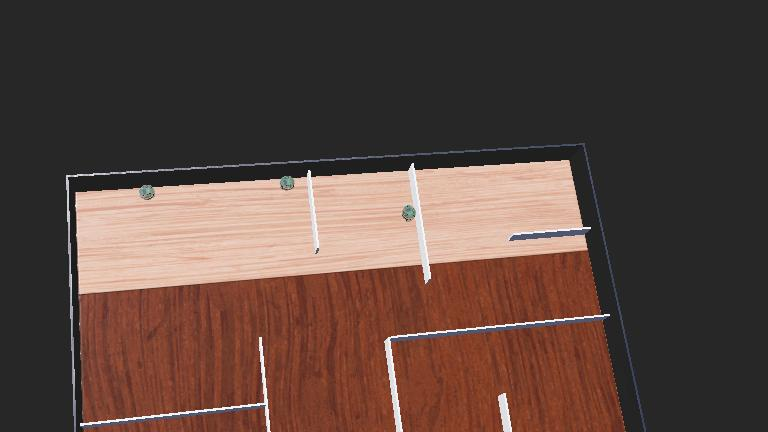
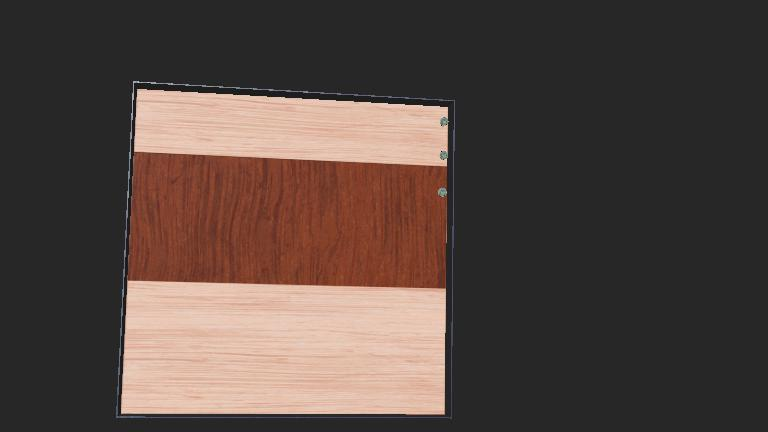
adding new refernece trajectory

diff --git a/controllers/my_controller_wall_follower/my_controller_wall_follower.py b/controllers/my_controller_wall_follower/my_controller_wall_follower.py
@@ -2,17 +2,15 @@ from controller import Robot, Motor, DistanceSensor, Camera
 import time, os
 import math
 
-# --- Shared constants ---
-DESIRED_LEFT_DISTANCE = 100
-
 # --- MFASMC parameters ---
-RHO = 0.5        # MFAC gain
-LAMBDA = 0.1     # MFAC regularization
-OMEGA = 0.3      # SMC gain
-SIGMA = 0.1      # SMC regularization
-GAMMA = 0.45     # Sliding mode contribution
-ALPHA = 1.0      # Sliding surface coefficient
-TAU_S = 0.05     # Sliding mode reaching law coefficient
+RHO = 1.35
+LAMBDA = 0.2
+OMEGA = 0.35
+SIGMA = 0.15
+GAMMA = 0.4
+ALPHA = 1.0
+TAU_S = 0.08
+PI = 3.1415926
 
 # --- Robot topology ---
 NEIGHBORS = {
@@ -21,36 +19,32 @@ NEIGHBORS = {
     "robot3": ["robot2"]
 }
 
+# --- Time-varying desired trajectory ---
+def desired_trajectory(t):
+    """Time-varying left wall distance (cm). Example: sinusoidal around 300cm."""
+    return 300 + 50 * math.sin((1.2 + 0.3 * math.sin(0.05 * t)) * t)
+    return 0.6*sin(0.07*PI*t) + 0.7*cos(0.04*PI*t)
+
+
+
+
+
 # --- Formation (distributed) errors ---
 def distributed_error_1(Y1, TargetVelocity1, Y_neighbors):
-
-    Xi1 = 1.37 * TargetVelocity1 - Y1 + 35
+    Xi1 = 0.9 * TargetVelocity1 - Y1 + 35
     return Xi1
 
 def distributed_error_2(Y2, TargetVelocity1, Y_neighbors):
-
-    Xi2 = 1.38 * TargetVelocity1 - Y2 - 15 
+    Xi2 = 1.07 * TargetVelocity1 - Y2 - 15 
     return Xi2
 
 def distributed_error_3(Y3, TargetVelocity1, Y_neighbors):
-
-    Xi3 = 1.45 * TargetVelocity1 - Y3 - 44 
+    Xi3 = 1.05 * TargetVelocity1 - Y3 - 44 
     return Xi3
 
 # --- MFASMC controllers ---
-def mfasmc_controller_1(Y1, Y_neighbors, u_prev, Xi_prev, Delta_Y_neighbors):
-    Xi = distributed_error_1(Y1, DESIRED_LEFT_DISTANCE, Y_neighbors)
-    s = ALPHA * Xi - Xi_prev
-    delta_u_MFAC = (RHO * 1.0 / (LAMBDA + 1.0**2)) * Xi   # phi_i_hat=1 for demo
-    sum_delta_yj = sum(Delta_Y_neighbors)
-    delta_u_SMC = (OMEGA * 1.0 / (SIGMA + 1.0**2)) * (
-        (Xi + sum_delta_yj) / max(1, len(Delta_Y_neighbors)) - Xi / max(1, len(Delta_Y_neighbors)) + TAU_S * math.copysign(1, s)
-    )
-    u = u_prev + delta_u_MFAC + GAMMA * delta_u_SMC
-    return u, Xi
-
-def mfasmc_controller_2(Y2, Y_neighbors, u_prev, Xi_prev, Delta_Y_neighbors):
-    Xi = distributed_error_2(Y2, DESIRED_LEFT_DISTANCE, Y_neighbors)
+def mfasmc_controller_1(Y1, Y_neighbors, u_prev, Xi_prev, Delta_Y_neighbors, TargetVelocity):
+    Xi = distributed_error_1(Y1, TargetVelocity, Y_neighbors)
     s = ALPHA * Xi - Xi_prev
     delta_u_MFAC = (RHO * 1.0 / (LAMBDA + 1.0**2)) * Xi
     sum_delta_yj = sum(Delta_Y_neighbors)
@@ -60,8 +54,19 @@ def mfasmc_controller_2(Y2, Y_neighbors, u_prev, Xi_prev, Delta_Y_neighbors):
     u = u_prev + delta_u_MFAC + GAMMA * delta_u_SMC
     return u, Xi
 
-def mfasmc_controller_3(Y3, Y_neighbors, u_prev, Xi_prev, Delta_Y_neighbors):
-    Xi = distributed_error_3(Y3, DESIRED_LEFT_DISTANCE, Y_neighbors)
+def mfasmc_controller_2(Y2, Y_neighbors, u_prev, Xi_prev, Delta_Y_neighbors, TargetVelocity):
+    Xi = distributed_error_2(Y2, TargetVelocity, Y_neighbors)
+    s = ALPHA * Xi - Xi_prev
+    delta_u_MFAC = (RHO * 1.0 / (LAMBDA + 1.0**2)) * Xi
+    sum_delta_yj = sum(Delta_Y_neighbors)
+    delta_u_SMC = (OMEGA * 1.0 / (SIGMA + 1.0**2)) * (
+        (Xi + sum_delta_yj) / max(1, len(Delta_Y_neighbors)) - Xi / max(1, len(Delta_Y_neighbors)) + TAU_S * math.copysign(1, s)
+    )
+    u = u_prev + delta_u_MFAC + GAMMA * delta_u_SMC
+    return u, Xi
+
+def mfasmc_controller_3(Y3, Y_neighbors, u_prev, Xi_prev, Delta_Y_neighbors, TargetVelocity):
+    Xi = distributed_error_3(Y3, TargetVelocity, Y_neighbors)
     s = ALPHA * Xi - Xi_prev
     delta_u_MFAC = (RHO * 1.0 / (LAMBDA + 1.0**2)) * Xi
     sum_delta_yj = sum(Delta_Y_neighbors)
@@ -124,23 +129,28 @@ def run_robot(robot):
     try: os.remove(data_file)
     except: pass
     with open(data_file, "w") as f:
-        f.write("time,left,front,u,Xi\n")
+        f.write("time,left,front,u,Xi,desired\n")
 
     start_time = time.time()
     last_time = time.time()
 
     while robot.step(timestep) != -1:
-        left_distance = (prox_sensors[5].getValue() + prox_sensors[6].getValue()) / 2.0
-        front_distance = prox_sensors[7].getValue()
         current_time = time.time()
         dt = current_time - last_time
         last_time = current_time
+
+        # --- Get left and front distances ---
+        left_distance = (prox_sensors[5].getValue() + prox_sensors[6].getValue()) / 2.0
+        front_distance = prox_sensors[7].getValue()
+
+        # --- Time-varying desired ---
+        TargetVelocity = desired_trajectory(current_time - start_time)
 
         # --- Read neighbor distances (placeholder) ---
         y_neighbors = [left_distance for _ in NEIGHBORS[robot_name]]
 
         # --- MFASMC control ---
-        u, Xi = controller_func(left_distance, y_neighbors, u_prev, Xi_prev, Delta_Y_neighbors)
+        u, Xi = controller_func(left_distance, y_neighbors, u_prev, Xi_prev, Delta_Y_neighbors, TargetVelocity)
         u = max(-1.5, min(1.5, u))
         delta_u = u - u_prev
         u_prev = u
@@ -153,7 +163,7 @@ def run_robot(robot):
 
         if front_wall:
             left_motor.setVelocity(max_speed)
-            right_motor.setVelocity(-max_speed * 0.3)
+            right_motor.setVelocity(-max_speed * 0.1)
         elif left_wall:
             left_speed = max_speed - u
             right_speed = max_speed + u
@@ -173,9 +183,9 @@ def run_robot(robot):
         # CSV logging
         with open(data_file, "a") as f:
             t = current_time - start_time
-            f.write(f"{t:.3f},{left_distance:.6f},{front_distance:.6f},{u:.6f},{Xi:.6f}\n")
+            f.write(f"{t:.3f},{left_distance:.6f},{front_distance:.6f},{u:.6f},{Xi:.6f},{TargetVelocity:.6f}\n")
 
-        print(f"{robot_name} | Left: {left_distance:.2f}, Front: {front_distance:.2f}, u: {u:.3f}, Xi: {Xi:.3f}")
+        print(f"{robot_name} | Left: {left_distance:.2f}, Front: {front_distance:.2f}, u: {u:.3f}, Xi: {Xi:.3f}, Desired: {TargetVelocity:.2f}")
 
 if __name__ == "__main__":
     my_robot = Robot()

diff --git a/live_plot_socket.py b/live_plot_socket.py
@@ -1,58 +1,84 @@
 import matplotlib.pyplot as plt
 import time
 import os
+import math
 
-DATA_FILE = "/tmp/webots_live_data.csv"
-POLL_INTERVAL = 0.15
+# Paths to each robot's CSV file (from your MFASMC code)
+DATA_FILES = {
+    "robot1": "/tmp/robot1_mfasmc_data.csv",
+    "robot2": "/tmp/robot2_mfasmc_data.csv",
+    "robot3": "/tmp/robot3_mfasmc_data.csv"
+}
+
+POLL_INTERVAL = 0.15  # seconds
 MAX_POINTS = 800
-DESIRED_LEFT_DISTANCE = 100  # constant target distance
 
+# --- Setup the live plot ---
 plt.ion()
-fig, ax = plt.subplots(figsize=(8,4))
-actual_line, = ax.plot([], [], label="Actual Left Distance")
-desired_line, = ax.plot([], [], label="Desired Distance (100)", linestyle='--')
+fig, ax = plt.subplots(figsize=(10, 5))
+lines = {}
+for robot_name in DATA_FILES:
+    lines[robot_name], = ax.plot([], [], label=f"{robot_name} Left Distance")
+# Reference trajectory line
+desired_line, = ax.plot([], [], label="Reference Trajectory", linestyle='--', color='black')
+
 ax.set_xlabel("Time (s)")
-ax.set_ylabel("Distance")
-ax.set_title("Left Wall Distance: Actual vs Desired")
+ax.set_ylabel("Left Wall Distance (cm)")
+ax.set_title("MFASMC Wall-Following: Actual vs Time-Varying Reference")
 ax.legend()
 ax.grid(True)
 
-def read_file():
-    if not os.path.exists(DATA_FILE):
-        return [], []
-    with open(DATA_FILE, "r") as f:
-        lines = f.readlines()
-    t_list, actual = [], []
-    for line in lines[1:]:  # skip header
+# --- Function to read CSV data ---
+def read_csv(file_path):
+    if not os.path.exists(file_path):
+        return [], [], []
+    t_list, left_list, desired_list = [], [], []
+    with open(file_path, "r") as f:
+        lines_csv = f.readlines()
+    for line in lines_csv[1:]:  # skip header
         parts = line.strip().split(",")
-        if len(parts) >= 2:
+        if len(parts) >= 6:
             try:
-                tt = float(parts[0])
-                ll = float(parts[1])
-                t_list.append(tt)
-                actual.append(ll)
+                t_list.append(float(parts[0]))
+                left_list.append(float(parts[1]))
+                desired_list.append(float(parts[5]))  # 'desired' column
             except:
                 pass
-    # create a desired distance list (constant 100)
-    desired = [DESIRED_LEFT_DISTANCE] * len(actual)
-    return t_list, actual, desired
+    return t_list, left_list, desired_list
 
+# --- Live plotting loop ---
 try:
     while True:
-        t, actual, desired = read_file()
-        if t:
-            # keep only last MAX_POINTS points
+        max_len = 0
+        # Read data for each robot
+        data_dict = {}
+        desired_data = []
+        for robot_name, file_path in DATA_FILES.items():
+            t, left, desired = read_csv(file_path)
             if len(t) > MAX_POINTS:
                 t = t[-MAX_POINTS:]
-                actual = actual[-MAX_POINTS:]
+                left = left[-MAX_POINTS:]
                 desired = desired[-MAX_POINTS:]
-            actual_line.set_xdata(t)
-            actual_line.set_ydata(actual)
-            desired_line.set_xdata(t)
-            desired_line.set_ydata(desired)
-            ax.relim()
-            ax.autoscale_view()
-            plt.pause(0.001)
+            data_dict[robot_name] = (t, left)
+            max_len = max(max_len, len(t))
+            if desired:
+                desired_data = desired  # assume all robots track same trajectory
+
+        # Update robot lines
+        for robot_name, (t, left) in data_dict.items():
+            lines[robot_name].set_xdata(t)
+            lines[robot_name].set_ydata(left)
+
+        # Update reference trajectory line
+        if max_len > 0 and desired_data:
+            any_t = next(iter(data_dict.values()))[0]  # use any robot's time
+            desired_line.set_xdata(any_t)
+            desired_line.set_ydata(desired_data)
+
+        ax.relim()
+        ax.autoscale_view()
+        plt.pause(0.001)
         time.sleep(POLL_INTERVAL)
+
 except KeyboardInterrupt:
-    print("Plotter stopped by user")
+    print("Live plot stopped by user")
